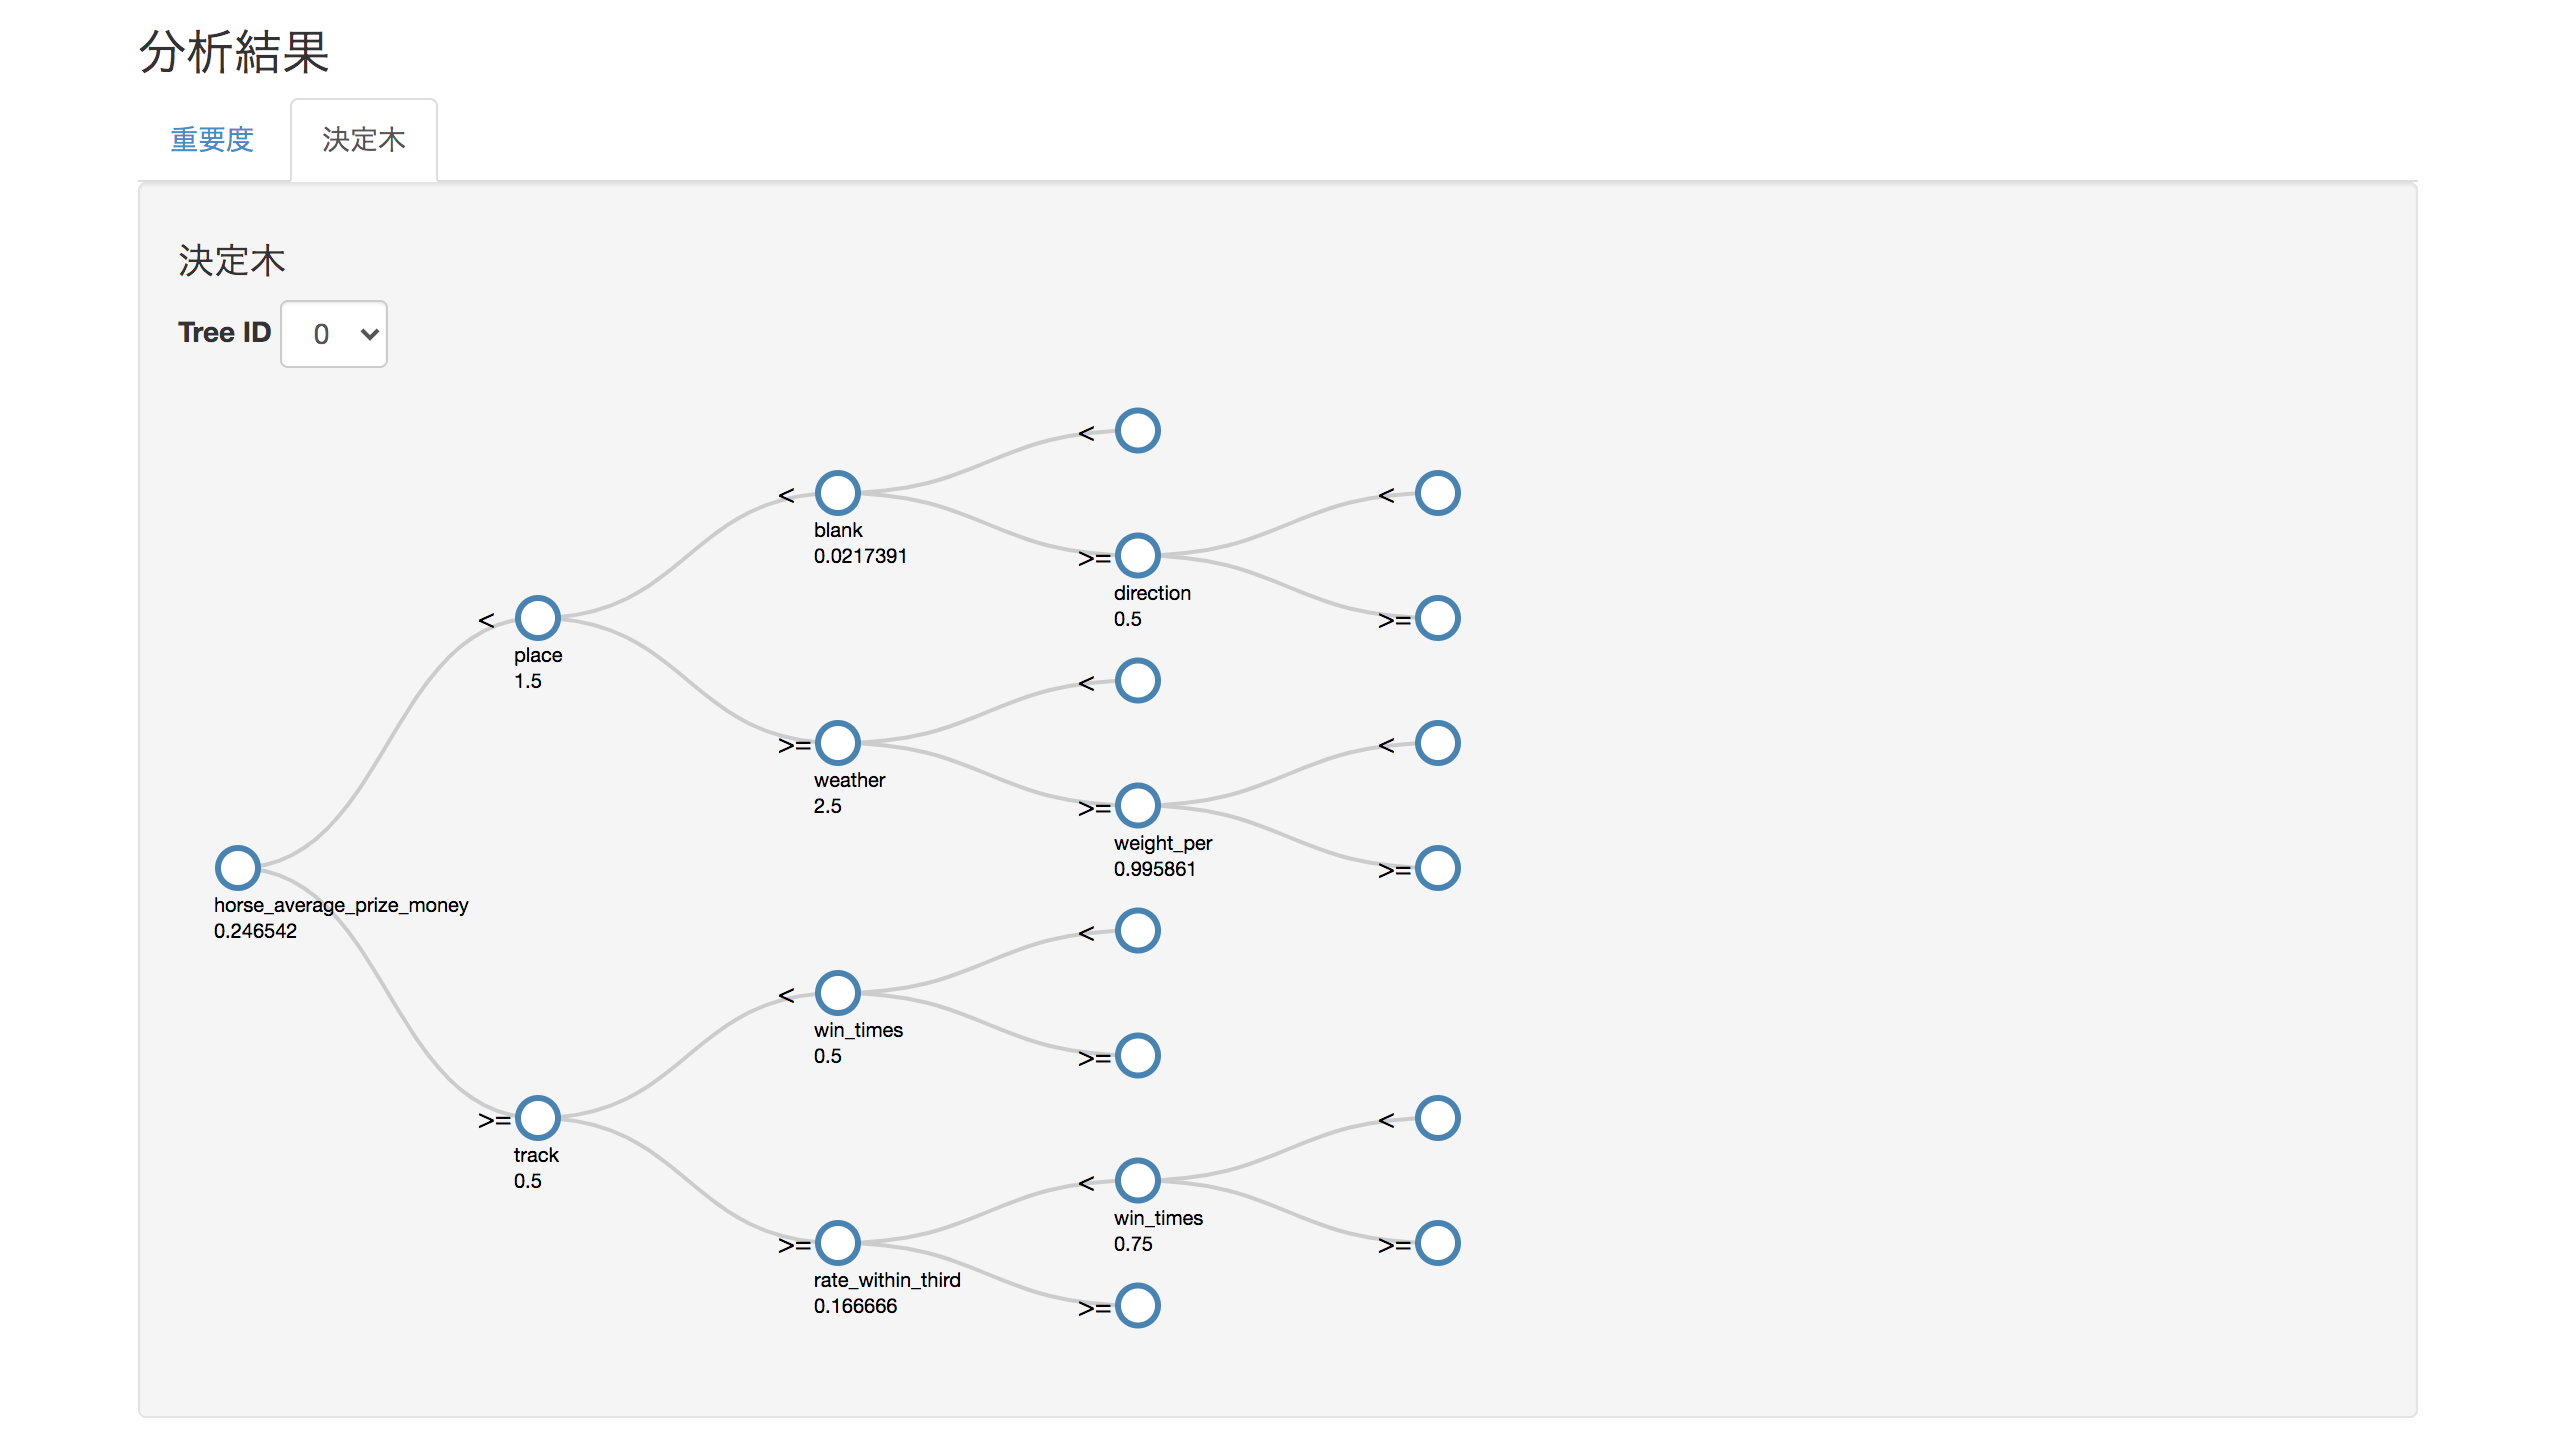
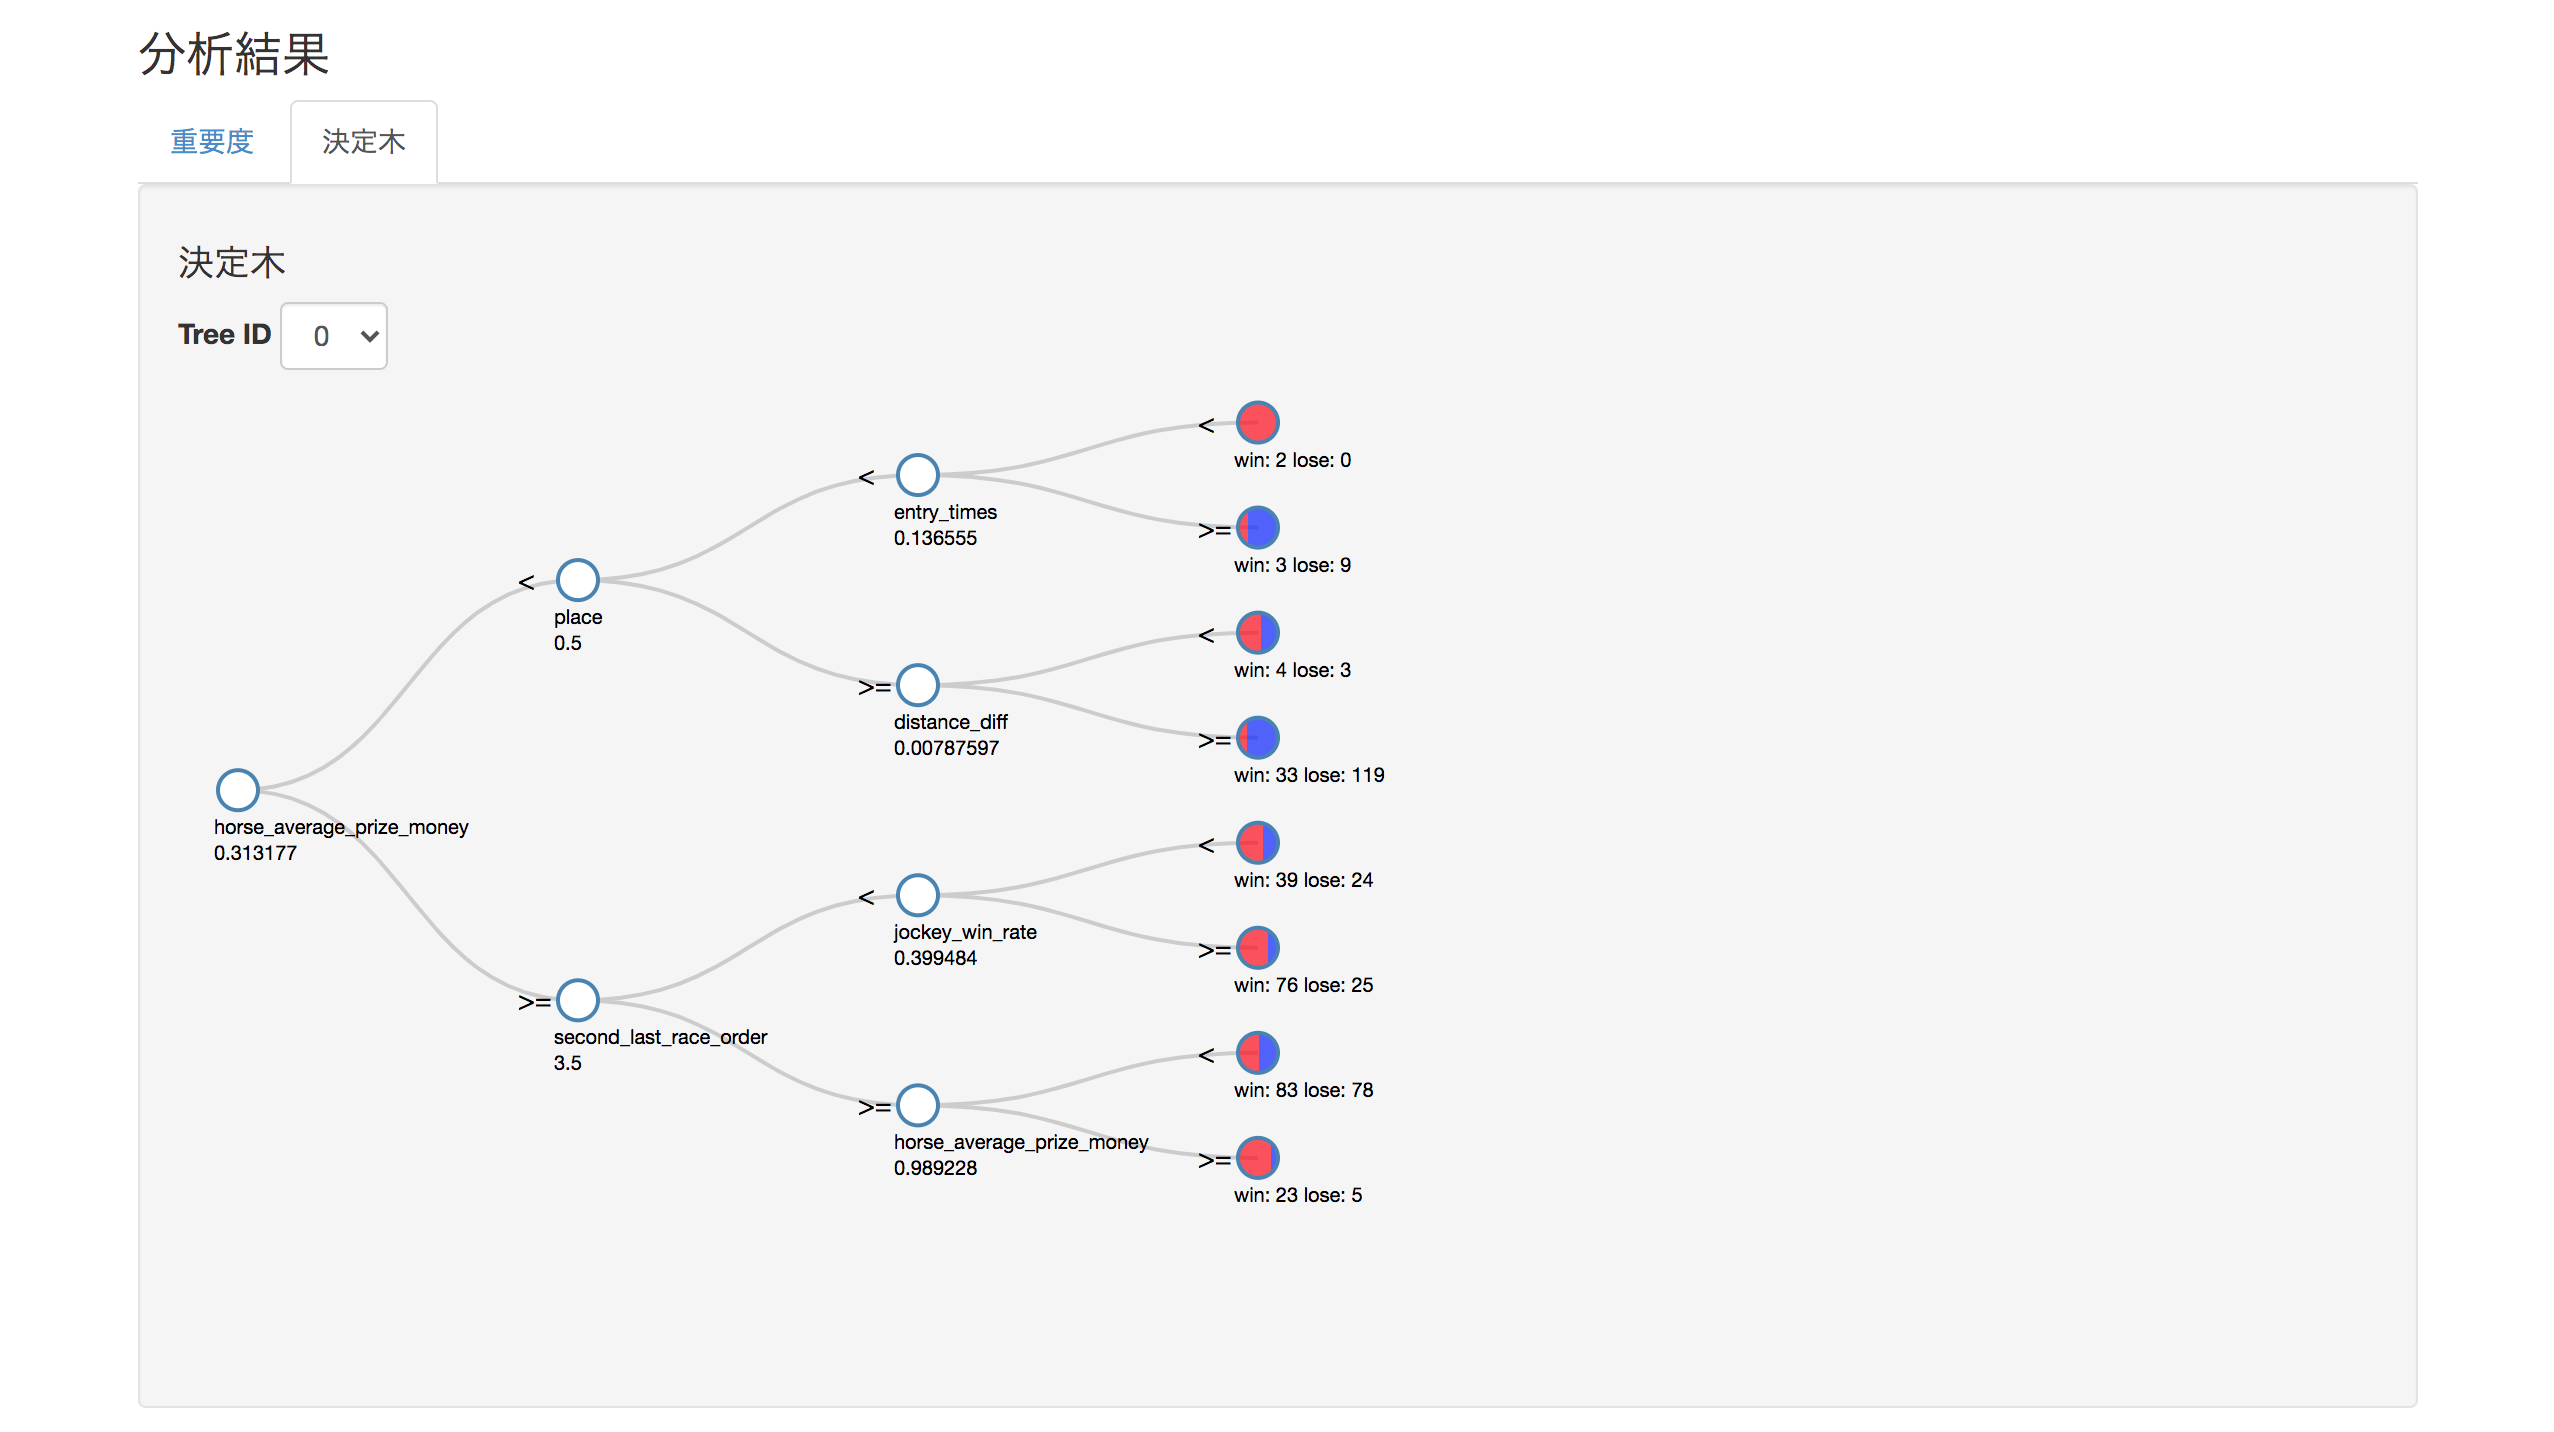
update decision tree image

diff --git a/horse-race_estimator/alterf/external.rst b/horse-race_estimator/alterf/external.rst
@@ -373,7 +373,9 @@
   - デフォルトでは決定木IDが0の決定木が表示される
 
 - 各ノードには素性や閾値が表示される
-- 葉ノードには振り分けられたデータの割合が円グラフで表示される
+- 葉ノードには振り分けられたデータの割合が表示される
+
+  - 赤い領域が大きいほど1着の素性が多い
 
 .. _alt-ext-ui-prediction:
 
